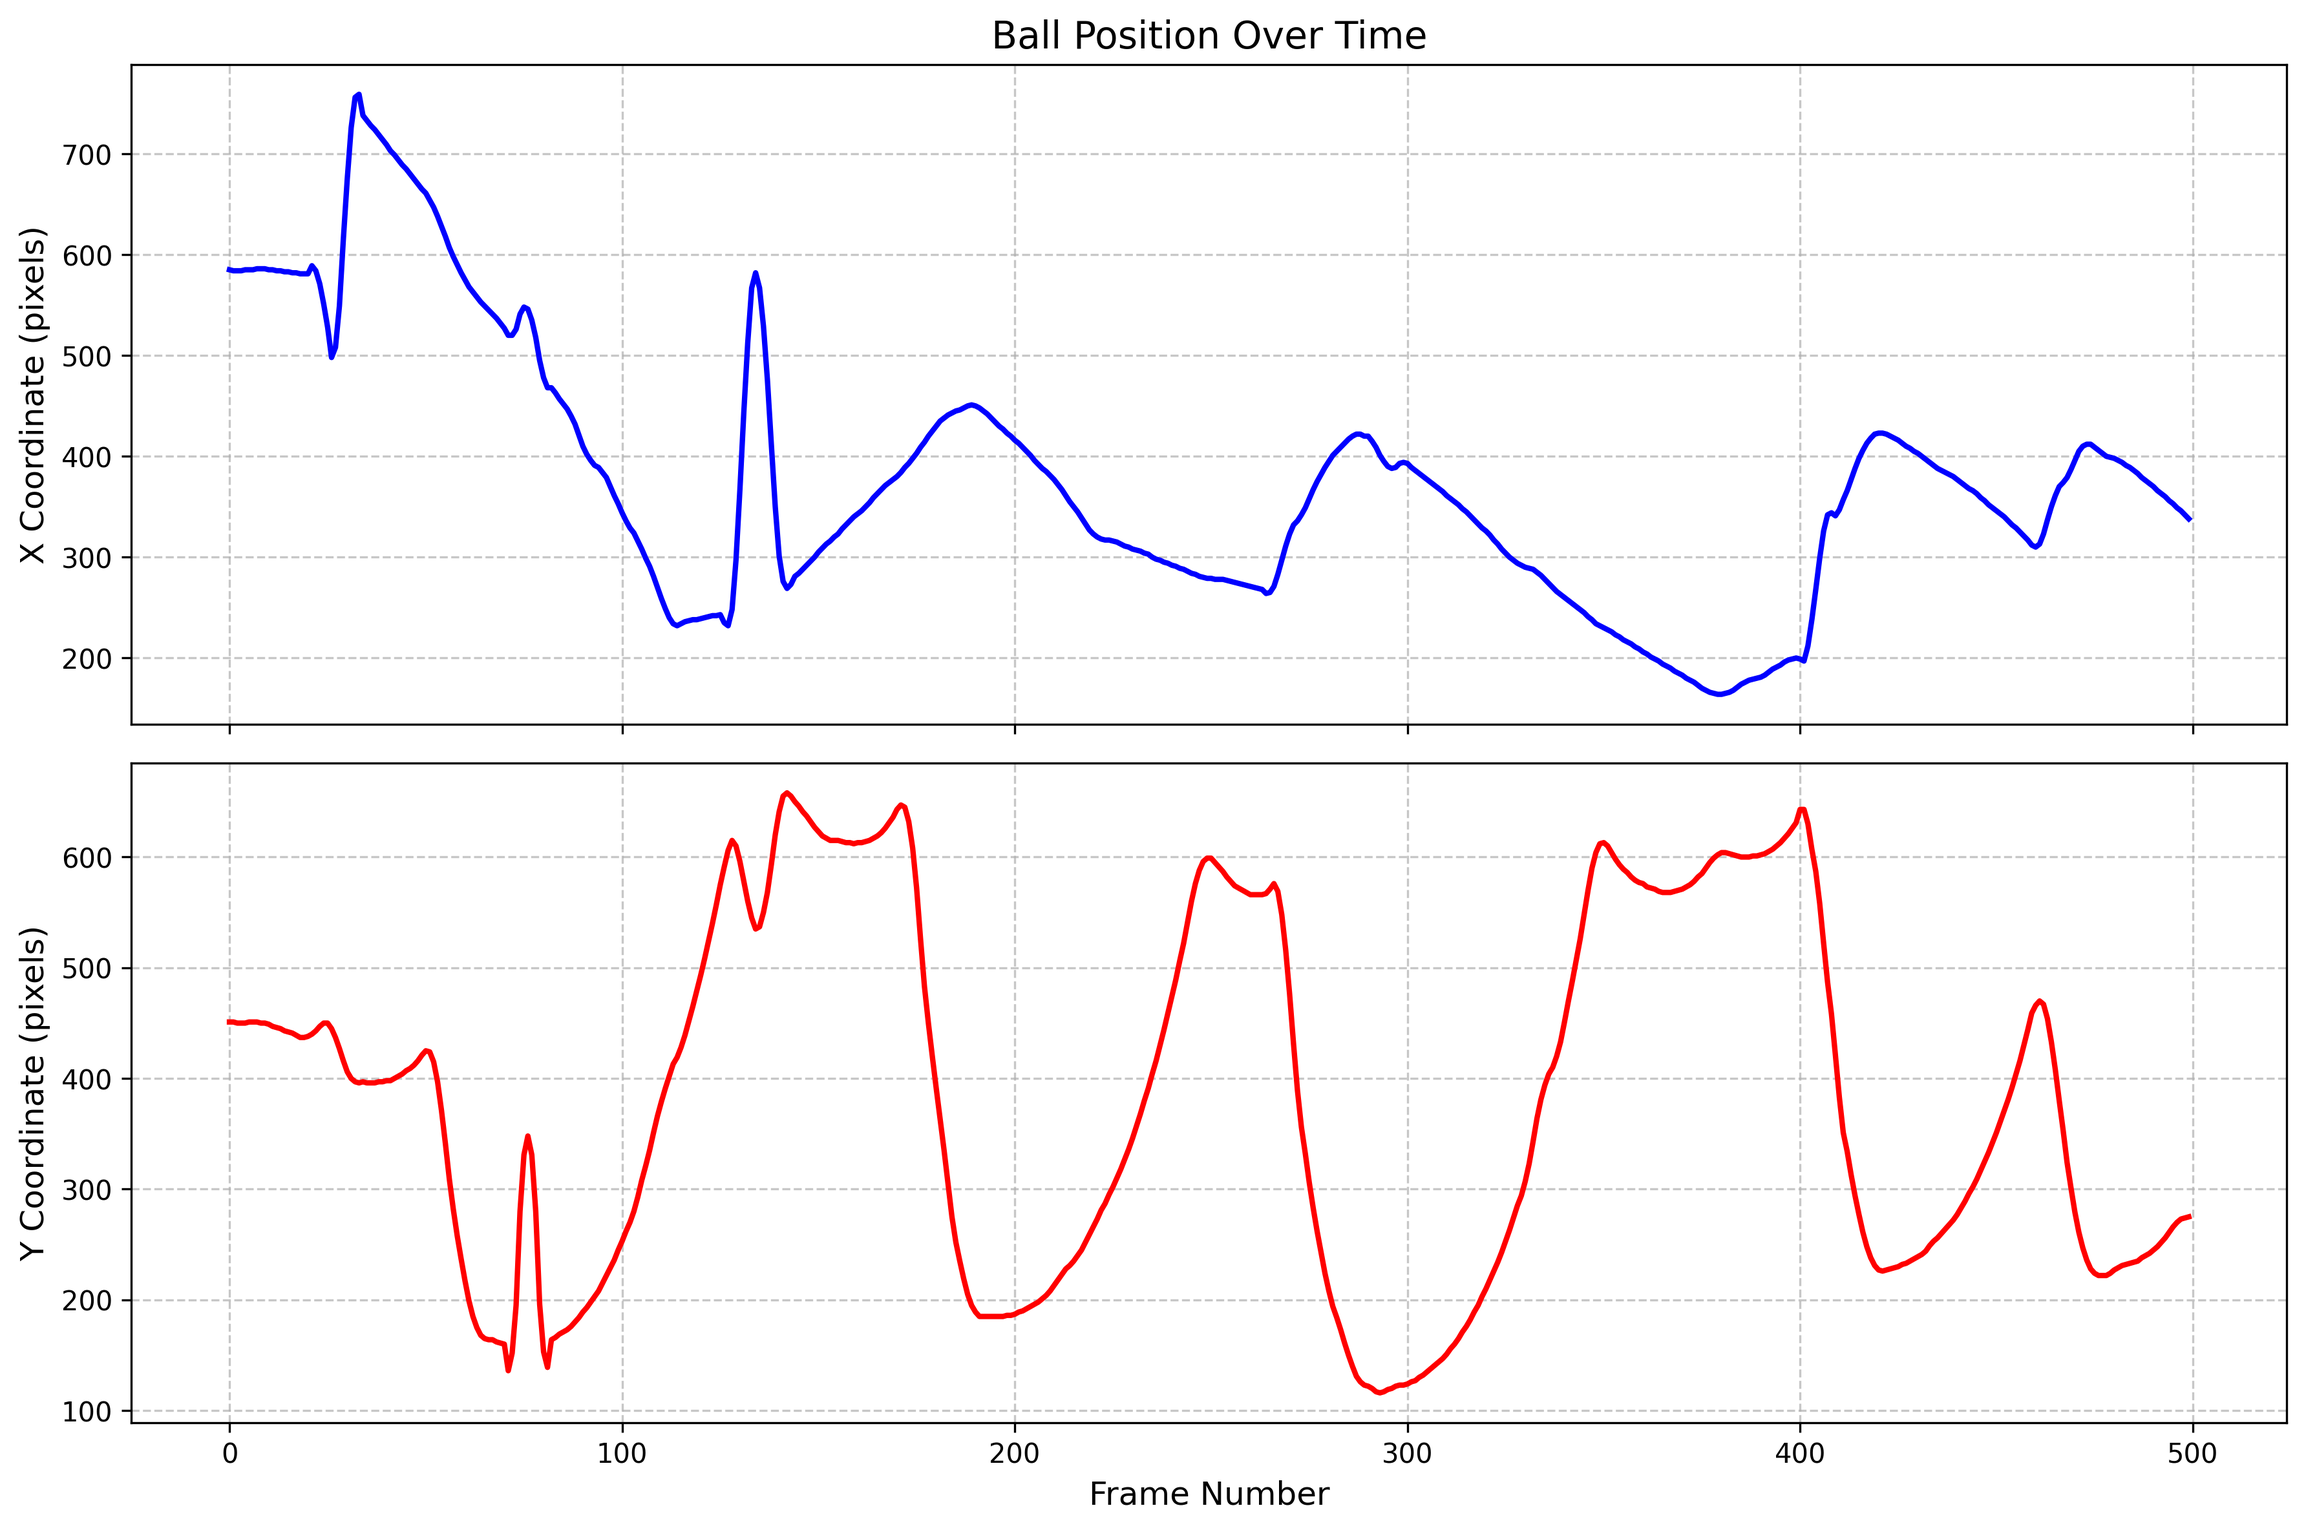
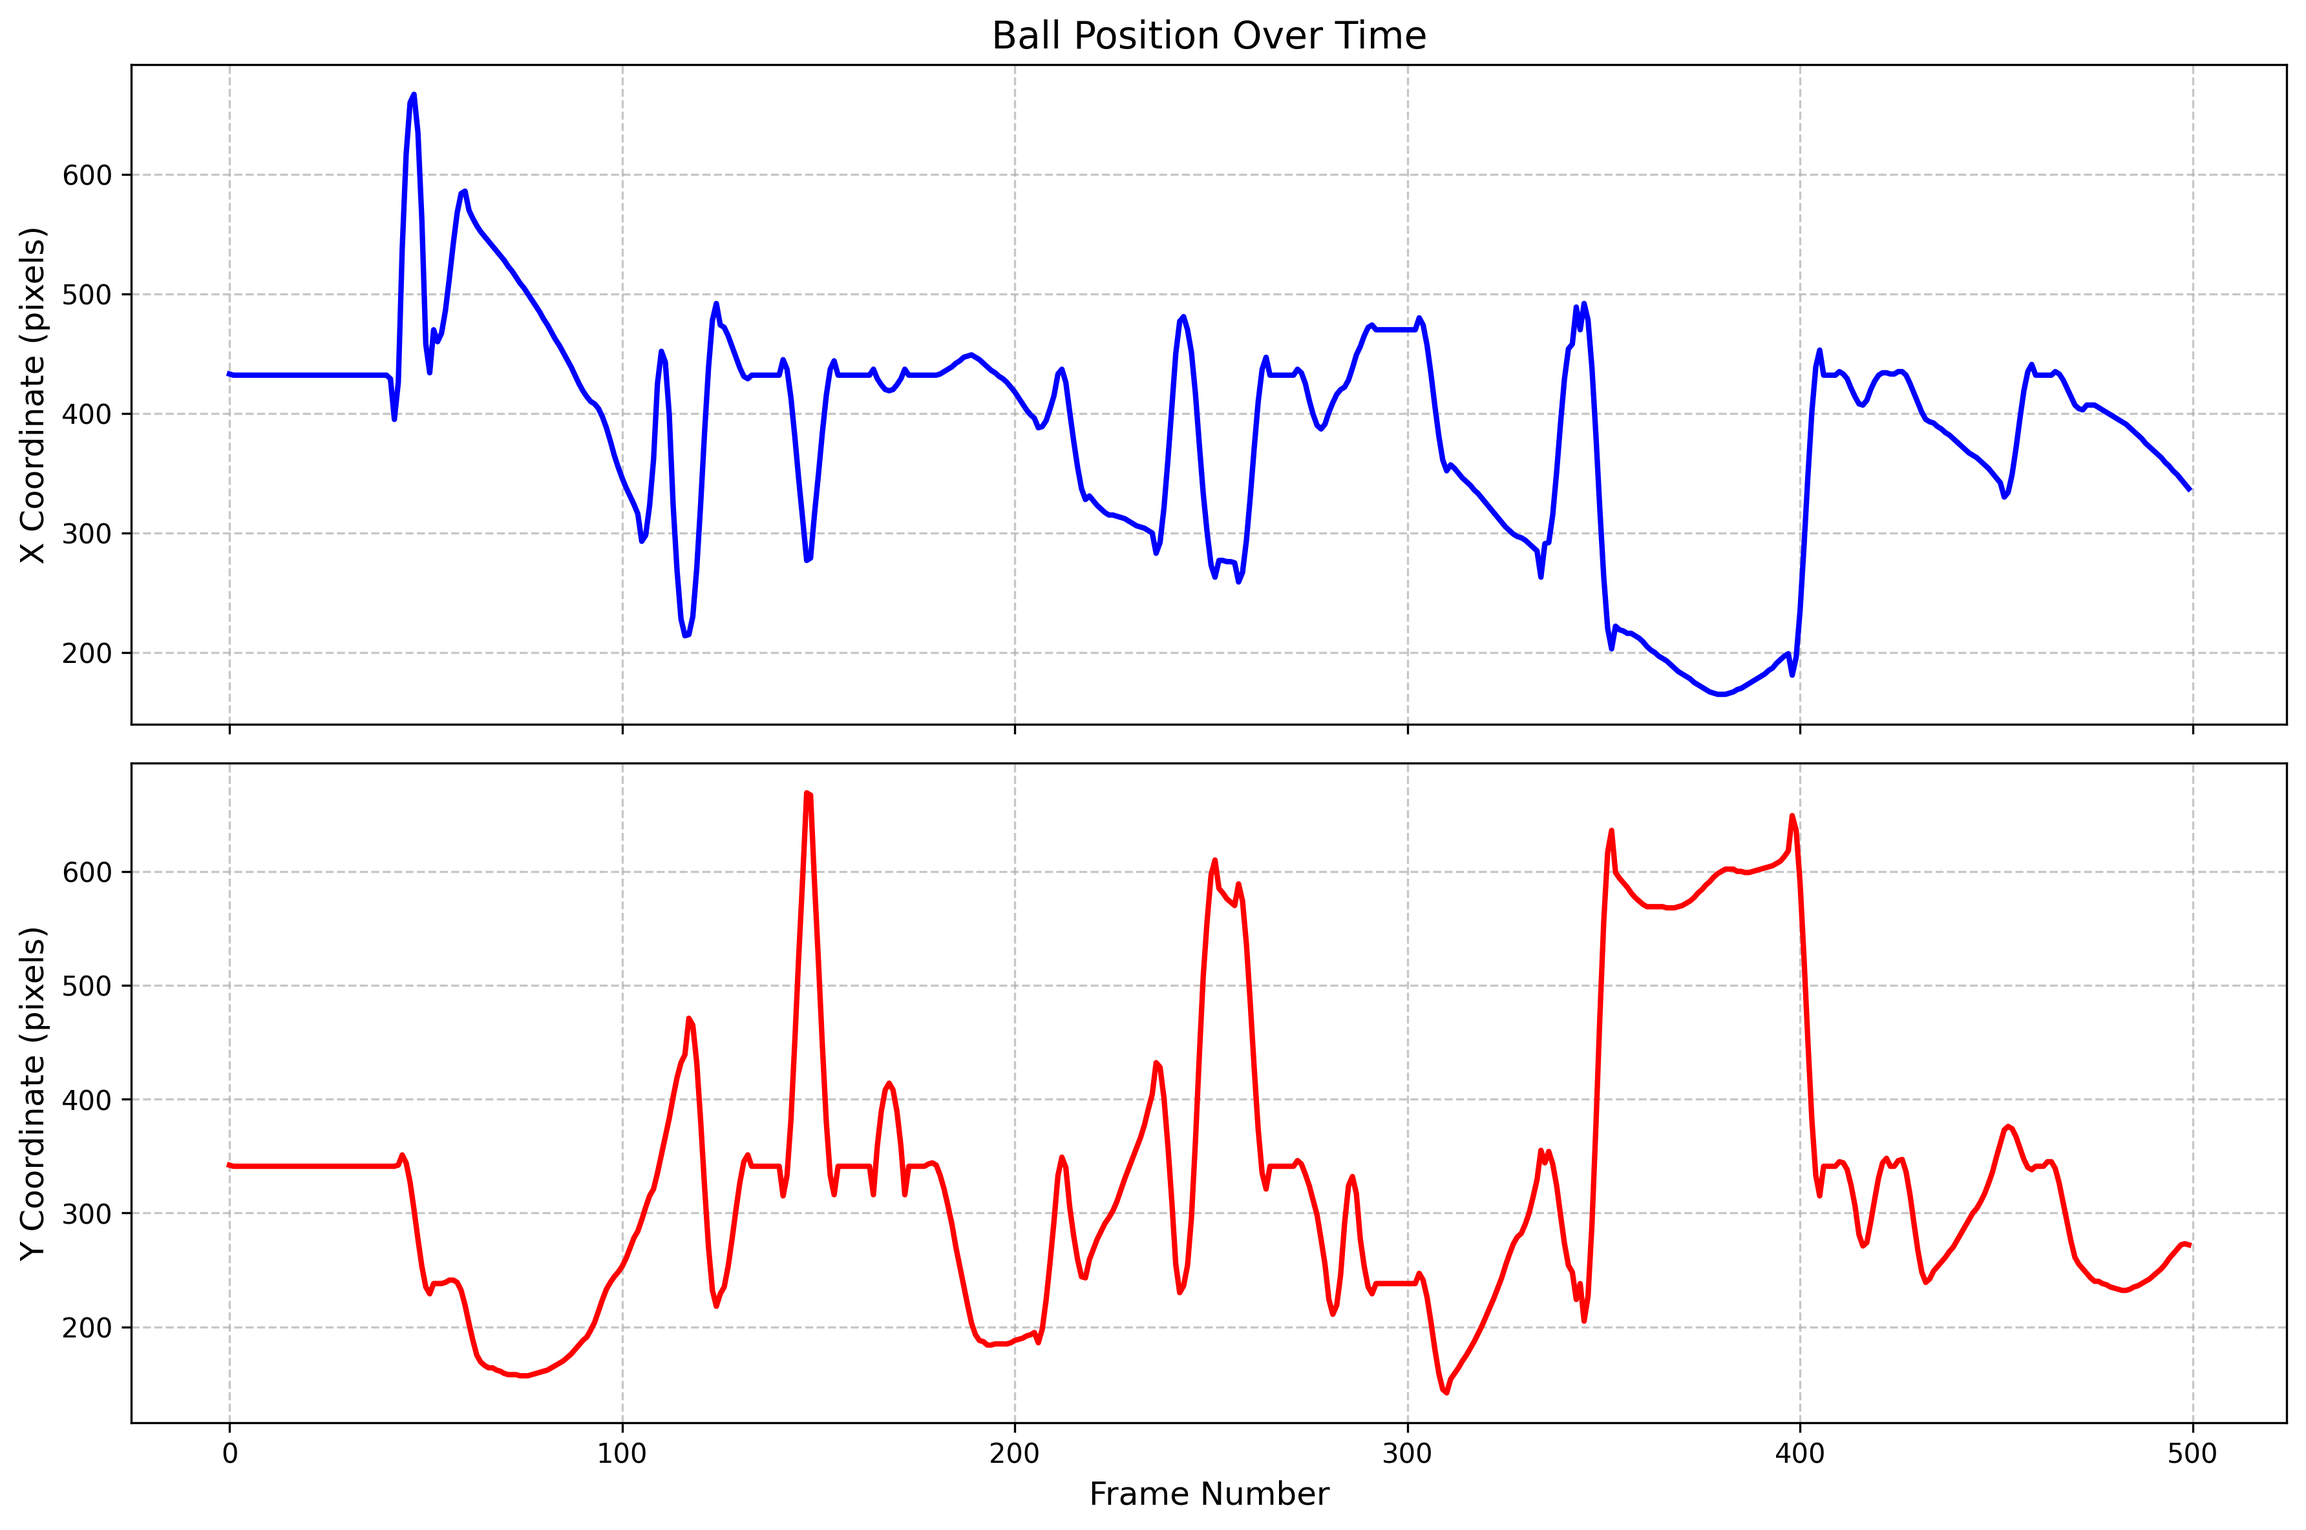
Add rf tracker and made a wrapper for both trackers

diff --git a/cv-module/digitization/detection-tracking/ball-detection/implementation/ball_tracker.py b/cv-module/digitization/detection-tracking/ball-detection/implementation/ball_tracker.py
@@ -1,90 +1,47 @@
-import torch
-import cv2
-import json
-import numpy as np
-from collections import deque
-from model import BallTrackerNet
-from general import postprocess, load_config
+from general import load_config
+from tracknet_tracker import TrackNetTracker
+from rf_tracker import RFTracker
 
 
 class BallTracker:
-    """Real-time ball tracker using TrackNet model.
+    """Wrapper class for ball tracking that selects between different tracker implementations.
 
-    This class maintains a buffer of the last 3 frames and uses the TrackNet model
-    to detect the ball position in each new frame.
+    This class acts as a facade that delegates to either TrackNetTracker or RFTracker
+    based on the configuration. It maintains the same interface so the evaluator
+    doesn't need to change.
     """
 
     def __init__(self, config: dict = None):
-        """Initialize the ball tracker.
+        """Initialize the ball tracker wrapper.
 
         Args:
-            config_path: Path to configuration JSON file
+            config: Configuration dictionary. If None, loads from config.json
         """
         # Load configuration
         if config is None:
             config = load_config("config.json")
 
-        self.config = config["model"]
+        self.config = config
 
-        # Setup device
-        device = self.config.get("device", "auto")
-        if device == "auto":
-            self.device = torch.device("cuda" if torch.cuda.is_available() else "cpu")
+        # Determine which tracker to use
+        tracker_type = self.config.get("tracker", {}).get("type", "tracknet")
+
+        # Initialize the appropriate tracker
+        if tracker_type == "tracknet":
+            self.tracker = TrackNetTracker(config=config)
+        elif tracker_type == "rf":
+            self.tracker = RFTracker(config=config)
         else:
-            self.device = torch.device(device)
+            raise ValueError(
+                f"Unknown tracker type: {tracker_type}. Must be 'tracknet' or 'rf'"
+            )
 
-        # Load model
-        model_path = self.config["model_path"]
-        self.model = BallTrackerNet()
-        self.model.load_state_dict(torch.load(model_path, map_location=self.device))
-        self.model = self.model.to(self.device)
-        self.model.eval()
-
-        # Model input dimensions
-        self.model_width = self.config.get("model_width", 640)
-        self.model_height = self.config.get("model_height", 360)
-
-        # Frame buffer (need 3 consecutive frames for inference)
-        self.frame_buffer = deque(maxlen=3)
-
-        # Track number of frames processed
-        self.frame_count = 0
+        # Expose the device attribute for compatibility with evaluator
+        self.device = getattr(self.tracker, "device", "N/A")
 
     def reset(self):
-        """Reset the tracker state (clears frame buffer)."""
-        self.frame_buffer.clear()
-        self.frame_count = 0
-
-    def _get_scaled_coordinates(self, x, y, original_width, original_height):
-        """Scale coordinates from model space to original frame resolution.
-
-        Args:
-            x: X coordinate from process_frame
-            y: Y coordinate from process_frame
-            original_width: Width of the original frame
-            original_height: Height of the original frame
-
-        Returns:
-            tuple: (x_scaled, y_scaled) in original frame coordinates, or (None, None)
-        """
-        if x is None or y is None:
-            return None, None
-
-        # Account for postprocess scale factor (2x)
-        postprocess_scale = 2
-
-        # Calculate scaling factors
-        scale_x = (original_width / self.model_width) / postprocess_scale
-        scale_y = (original_height / self.model_height) / postprocess_scale
-
-        x_scaled = int(x * scale_x)
-        y_scaled = int(y * scale_y)
-
-        # Ensure coordinates are within bounds
-        x_scaled = max(0, min(x_scaled, original_width - 1))
-        y_scaled = max(0, min(y_scaled, original_height - 1))
-
-        return x_scaled, y_scaled
+        """Reset the tracker state."""
+        self.tracker.reset()
 
     def process_frame(self, frame):
         """Process a single frame and return ball coordinates.
@@ -94,41 +51,5 @@ class BallTracker:
 
         Returns:
             tuple: (x, y) coordinates of the ball, or (None, None) if not detected.
-                   Coordinates are in the coordinate system of the model (640x360 scaled by 2).
         """
-        # Resize frame to model dimensions
-        frame_resized = cv2.resize(frame, (self.model_width, self.model_height))
-
-        # Add frame to buffer
-        self.frame_buffer.append(frame_resized)
-        self.frame_count += 1
-
-        # Need at least 3 frames for inference
-        if len(self.frame_buffer) < 3:
-            return None, None
-
-        # Prepare input: concatenate 3 frames along channel dimension
-        # Order: current, previous, pre-previous
-        frames_list = list(self.frame_buffer)
-        img = frames_list[2]  # current
-        img_prev = frames_list[1]  # previous
-        img_preprev = frames_list[0]  # pre-previous
-
-        imgs = np.concatenate((img, img_prev, img_preprev), axis=2)
-        imgs = imgs.astype(np.float32) / 255.0
-        imgs = np.rollaxis(imgs, 2, 0)
-        inp = np.expand_dims(imgs, axis=0)
-
-        # Run inference
-        with torch.no_grad():
-            out = self.model(torch.from_numpy(inp).float().to(self.device))
-            output = out.argmax(dim=1).detach().cpu().numpy()
-
-        # Postprocess to get (x, y) coordinates
-        x_pred, y_pred = postprocess(output)
-
-        x, y = self._get_scaled_coordinates(
-            x_pred, y_pred, frame.shape[1], frame.shape[0]
-        )
-
-        return x, y
+        return self.tracker.process_frame(frame)

diff --git a/cv-module/digitization/detection-tracking/ball-detection/implementation/tracknet_tracker.py b/cv-module/digitization/detection-tracking/ball-detection/implementation/tracknet_tracker.py
@@ -1,0 +1,134 @@
+import torch
+import cv2
+import json
+import numpy as np
+from collections import deque
+from model import BallTrackerNet
+from general import postprocess, load_config
+
+
+class TrackNetTracker:
+    """Real-time ball tracker using TrackNet model.
+
+    This class maintains a buffer of the last 3 frames and uses the TrackNet model
+    to detect the ball position in each new frame.
+    """
+
+    def __init__(self, config: dict = None):
+        """Initialize the ball tracker.
+
+        Args:
+            config_path: Path to configuration JSON file
+        """
+        # Load configuration
+        if config is None:
+            config = load_config("config.json")
+
+        self.config = config["model"]
+
+        # Setup device
+        device = self.config.get("device", "auto")
+        if device == "auto":
+            self.device = torch.device("cuda" if torch.cuda.is_available() else "cpu")
+        else:
+            self.device = torch.device(device)
+
+        # Load model
+        model_path = self.config["model_path"]
+        self.model = BallTrackerNet()
+        self.model.load_state_dict(torch.load(model_path, map_location=self.device))
+        self.model = self.model.to(self.device)
+        self.model.eval()
+
+        # Model input dimensions
+        self.model_width = self.config.get("model_width", 640)
+        self.model_height = self.config.get("model_height", 360)
+
+        # Frame buffer (need 3 consecutive frames for inference)
+        self.frame_buffer = deque(maxlen=3)
+
+        # Track number of frames processed
+        self.frame_count = 0
+
+    def reset(self):
+        """Reset the tracker state (clears frame buffer)."""
+        self.frame_buffer.clear()
+        self.frame_count = 0
+
+    def _get_scaled_coordinates(self, x, y, original_width, original_height):
+        """Scale coordinates from model space to original frame resolution.
+
+        Args:
+            x: X coordinate from process_frame
+            y: Y coordinate from process_frame
+            original_width: Width of the original frame
+            original_height: Height of the original frame
+
+        Returns:
+            tuple: (x_scaled, y_scaled) in original frame coordinates, or (None, None)
+        """
+        if x is None or y is None:
+            return None, None
+
+        # Account for postprocess scale factor (2x)
+        postprocess_scale = 2
+
+        # Calculate scaling factors
+        scale_x = (original_width / self.model_width) / postprocess_scale
+        scale_y = (original_height / self.model_height) / postprocess_scale
+
+        x_scaled = int(x * scale_x)
+        y_scaled = int(y * scale_y)
+
+        # Ensure coordinates are within bounds
+        x_scaled = max(0, min(x_scaled, original_width - 1))
+        y_scaled = max(0, min(y_scaled, original_height - 1))
+
+        return x_scaled, y_scaled
+
+    def process_frame(self, frame):
+        """Process a single frame and return ball coordinates.
+
+        Args:
+            frame: Input frame (BGR format, any resolution)
+
+        Returns:
+            tuple: (x, y) coordinates of the ball, or (None, None) if not detected.
+                   Coordinates are in the coordinate system of the model (640x360 scaled by 2).
+        """
+        # Resize frame to model dimensions
+        frame_resized = cv2.resize(frame, (self.model_width, self.model_height))
+
+        # Add frame to buffer
+        self.frame_buffer.append(frame_resized)
+        self.frame_count += 1
+
+        # Need at least 3 frames for inference
+        if len(self.frame_buffer) < 3:
+            return None, None
+
+        # Prepare input: concatenate 3 frames along channel dimension
+        # Order: current, previous, pre-previous
+        frames_list = list(self.frame_buffer)
+        img = frames_list[2]  # current
+        img_prev = frames_list[1]  # previous
+        img_preprev = frames_list[0]  # pre-previous
+
+        imgs = np.concatenate((img, img_prev, img_preprev), axis=2)
+        imgs = imgs.astype(np.float32) / 255.0
+        imgs = np.rollaxis(imgs, 2, 0)
+        inp = np.expand_dims(imgs, axis=0)
+
+        # Run inference
+        with torch.no_grad():
+            out = self.model(torch.from_numpy(inp).float().to(self.device))
+            output = out.argmax(dim=1).detach().cpu().numpy()
+
+        # Postprocess to get (x, y) coordinates
+        x_pred, y_pred = postprocess(output)
+
+        x, y = self._get_scaled_coordinates(
+            x_pred, y_pred, frame.shape[1], frame.shape[0]
+        )
+
+        return x, y

diff --git a/cv-module/digitization/detection-tracking/ball-detection/implementation/rf_tracker.py b/cv-module/digitization/detection-tracking/ball-detection/implementation/rf_tracker.py
@@ -1,0 +1,68 @@
+from inference import get_model
+import supervision as sv
+import cv2
+import numpy as np
+from general import load_config
+
+
+class RFTracker:
+    """Ball tracker using Roboflow model for ball detection.
+
+    This class uses a Roboflow inference model to detect the ball position
+    in each frame. It keeps only the highest confidence detection per frame.
+    """
+
+    def __init__(self, config: dict = None):
+        """Initialize the RF tracker.
+
+        Args:
+            config: Configuration dictionary. If None, loads from config.json
+        """
+        # Load configuration
+        if config is None:
+            config = load_config("config.json")
+
+        self.config = config
+
+        # Get RF model configuration
+        rf_config = self.config.get("rf_model", {})
+        model_id = rf_config.get("model_id", "squash-ball-detection-1lbti/1")
+        api_key = rf_config.get("api_key", "56e6SM7rfayFBoIrsIFz")
+
+        # Load the Roboflow model
+        self.model = get_model(model_id=model_id, api_key=api_key)
+
+    def reset(self):
+        """Reset the tracker state."""
+        self.frame_count = 0
+
+    def process_frame(self, frame):
+        """Process a single frame and return ball coordinates.
+
+        Args:
+            frame: Input frame (BGR format, any resolution)
+
+        Returns:
+            tuple: (x, y) coordinates of the ball center, or (None, None) if not detected.
+                   Coordinates are in the original frame's coordinate system.
+        """
+        # Run inference
+        results = self.model.infer(frame)[0]
+        detections = sv.Detections.from_inference(results)
+
+        # Keep only the detection with highest confidence
+        if len(detections) > 0:
+            max_confidence_idx = np.argmax(detections.confidence)
+            detection = detections[[max_confidence_idx]]
+
+            # Get bounding box coordinates [x1, y1, x2, y2]
+            bbox = detection.xyxy[0]  # First element is the bounding box
+            x1, y1, x2, y2 = bbox
+
+            # Calculate center of bounding box
+            x_center = int((x1 + x2) / 2)
+            y_center = int((y1 + y2) / 2)
+
+            return x_center, y_center
+
+        return None, None
